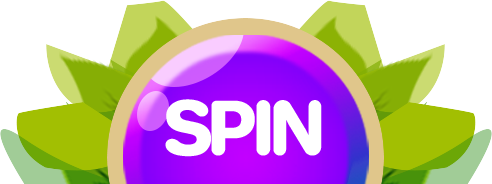
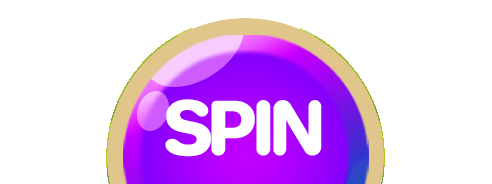
Spin button looks disabled when spinning reels

diff --git a/js/scenes/SceneMain.js b/js/scenes/SceneMain.js
@@ -11,6 +11,7 @@ class SceneMain extends Phaser.Scene
     this.tableBackground;
     this.tableFrame;
     this.spinButton;
+    this.disableTint = 0x6E6E6E;
 
     this.spinOutcomeManager = new SpinOutcomeManager(this, 3);
     this.reelsManager = new ReelsManager(this, this.spinOutcomeManager, 15, 3, [400, 580, 765, 952, 1135], 150, 150, 100, 230);
@@ -32,12 +33,18 @@ class SceneMain extends Phaser.Scene
     
     this.spinButton = this.add.image(CENTERX, 685, 'spinButton').setInteractive().on('pointerdown', this.reelsManager.onClickSpin, this.reelsManager);
     Align.scaleToGameW(this.spinButton, 0.2);
+    Align.scaleToGameW(this.add.image(CENTERX, 685, 'leaves'), 0.2);
 
-    this.winLinesManager.drawWinLines();
+    //this.winLinesManager.drawWinLines();
   }
 
   update()
   {
     this.reelsManager.update();
+  }
+
+  enableSpinButton(enbale = true)
+  {
+    this.spinButton.setTint(enbale ? 0xFFFFFF : this.disableTint);
   }
 }

diff --git a/js/scenes/SceneLoader.js b/js/scenes/SceneLoader.js
@@ -10,6 +10,7 @@ class SceneLoader extends Phaser.Scene
     this.load.image('background', 'assets/images/background/background.png');
     this.load.image('tableFrame', 'assets/images/table/table frame.png');
     this.load.image('tableBackground', 'assets/images/table/table background.png');
+    this.load.image('leaves', 'assets/images/spin button/leaves.png');
     this.load.image('spinButton', 'assets/images/spin button/spinButton.png');
     
     ReelsInfo.AllReelSymbols.forEach(function (symbolKey) {

diff --git a/js/entities/ReelsManager.js b/js/entities/ReelsManager.js
@@ -50,6 +50,7 @@ class ReelsManager
   {
     if(this.isReelsSpinning) return;
     this.isReelsSpinning = true;
+    this.scene.enableSpinButton(false);
 
     this.reel1.spinReelByRowsCount(25);
     this.reel2.spinReelByRowsCount(35);
@@ -78,6 +79,7 @@ class ReelsManager
   onSpinningStop()
   {
     this.isReelsSpinning = false;
+    this.scene.enableSpinButton();
     this.updateReelsGrid();
     this.spinOutcomeManager.calculateWin(this.reelsGrid);
   }
